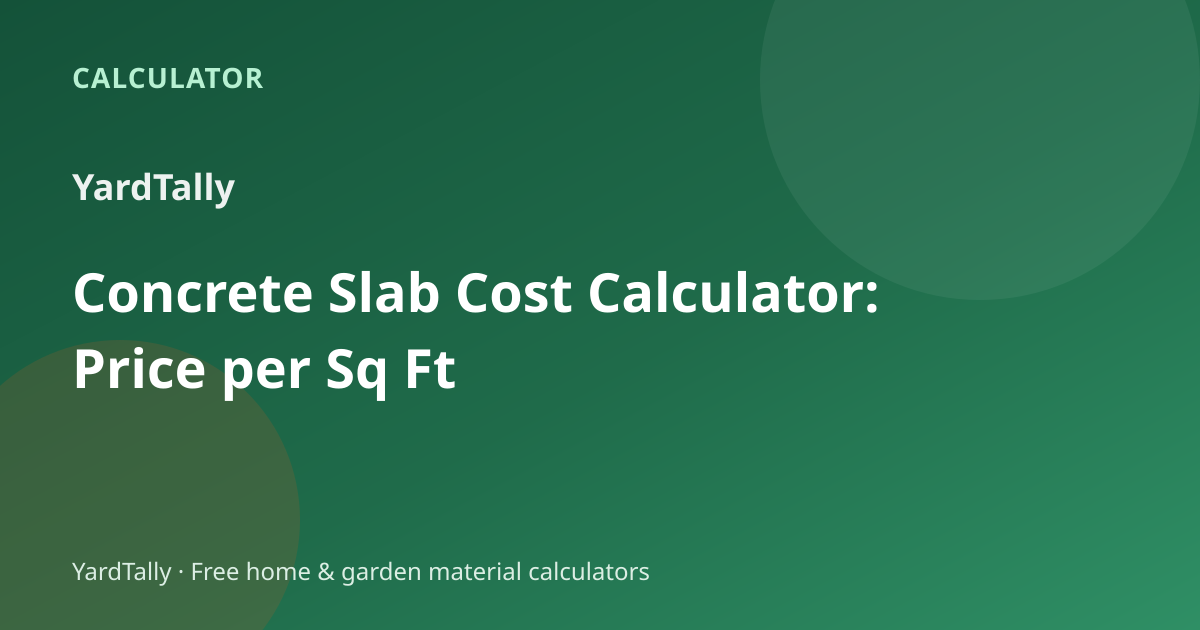
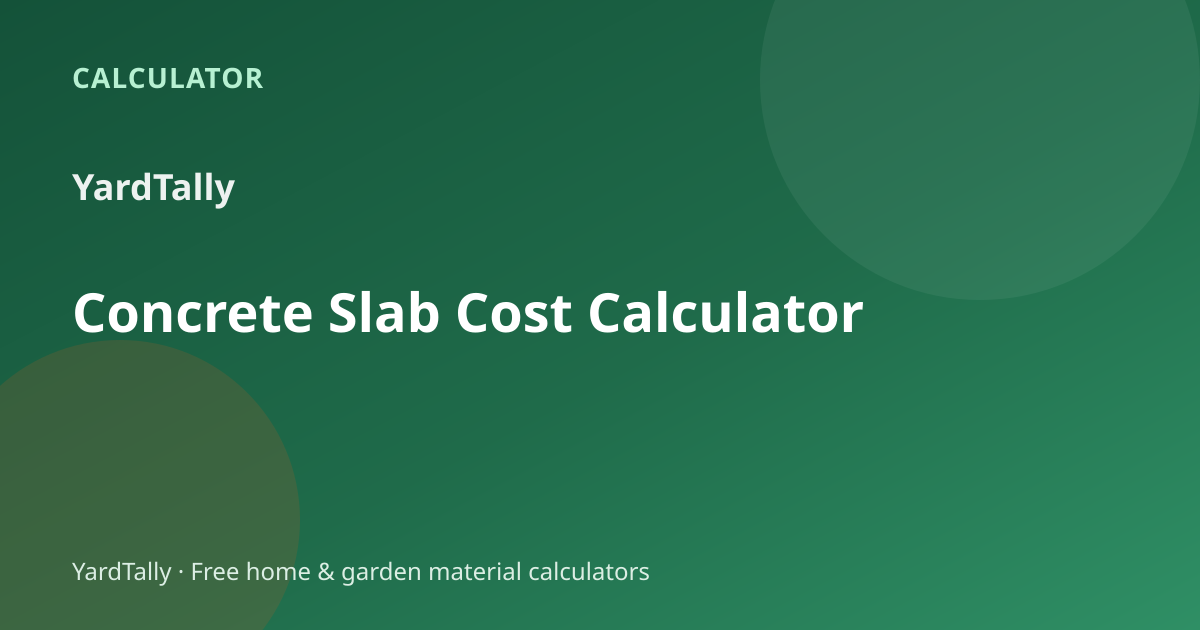
Harden sitemap coverage and tighten slab-cost SEO (#57)
Confirm every indexable route is in the sitemap with canonical
host/trailing slash/lastmod; fail CI via audit:indexing. Exact-match
title/H1/meta for concrete slab cost calculator plus reciprocal
concrete-steps links. GSC sitemap-index resubmitted separately.

Changed region(s): [[0.0617, 0.4222, 0.74, 0.6333]]

diff --git a/src/data/toolBodies.ts b/src/data/toolBodies.ts
@@ -1168,7 +1168,7 @@ bags = ceil(volume_total × (1 + waste) ÷ bag_yield)</code></pre>
       <div class="takeaway"><strong>Key takeaway:</strong> Volume is fixed by geometry; cost is only as good as the prices you paste in. Treat every dollar field as a quote placeholder, not a national average.</div>
       <h2>When ready-mix wins vs bags</h2>
       <p>Bags are fine for a small pad you can mix in batches. Past about one cubic yard—or any pour that must stay continuous across a patio—most people price a short-load truck even when the yardage looks “small.” Short-load fees often hurt more than the extra concrete on the ticket; I round up to the next quarter yard when the plant bills that way. Run both modes here with your real numbers before you decide.</p>
-      <p>Need a volume-only check without money fields? Stay on the <a href="/calculators/concrete-calculator/">yards &amp; bags calculator</a>. Coverage planning is in <a href="/guides/how-much-concrete-do-i-need/">how much concrete do I need</a>; thickness norms in <a href="/guides/concrete-slab-thickness/">concrete slab thickness</a>. Strip footings are a different shape—use the <a href="/calculators/concrete-footing-calculator/">concrete footing calculator</a>. Bag charts without pricing live in <a href="/guides/how-many-bags-of-concrete/">how many bags of concrete</a>.</p>
+      <p>Need a volume-only check without money fields? Stay on the <a href="/calculators/concrete-calculator/">yards &amp; bags calculator</a>. Solid poured stairs are a different shape—use the <a href="/calculators/concrete-steps-calculator/">concrete steps calculator</a>. Coverage planning is in <a href="/guides/how-much-concrete-do-i-need/">how much concrete do I need</a>; thickness norms in <a href="/guides/concrete-slab-thickness/">concrete slab thickness</a>. Strip footings are a different shape—use the <a href="/calculators/concrete-footing-calculator/">concrete footing calculator</a>. Bag charts without pricing live in <a href="/guides/how-many-bags-of-concrete/">how many bags of concrete</a>.</p>
       <h2>Pricing the add-ons without guessing</h2>
       <p>Gravel base is a separate order. Measure base depth, convert with the <a href="/calculators/gravel-calculator/">gravel calculator</a>, then paste the yard’s ton or yard quote into the gravel field. Steel can be rebar sticks (see the <a href="/calculators/rebar-calculator/">rebar calculator</a>) or welded-wire mesh from a lumber yard—enter the cash total, not a made-up $/sq ft “industry rate.” Forms are usually 2× lumber you already price per board foot. Delivery and short-load fees come straight off the batch plant’s quote sheet. Labor per sq ft is optional; use it only if you are comparing DIY vs hired finishing, and use <em>your</em> rate.</p>
       <h2>Common mistakes</h2>

diff --git a/tests/sitemap-coverage.test.ts b/tests/sitemap-coverage.test.ts
@@ -1,0 +1,48 @@
+import { describe, expect, it } from 'vitest';
+import { tools, categories } from '../src/data/tools';
+import { guides } from '../src/data/guides';
+import { STATIC_INDEXABLE_PATHS } from '../scripts/audit/expected-sitemap-paths.mjs';
+
+/** Pathnames that must appear in the production sitemap after build. */
+function expectedIndexablePathnames(): string[] {
+  const fromTools = tools.map((t) => `/calculators/${t.slug}/`);
+  const fromGuides = guides.map((g) => `/guides/${g.slug}/`);
+  const fromHubs = Object.values(categories).map((c) => `/hubs/${c.slug}/`);
+  return [...new Set([...STATIC_INDEXABLE_PATHS, ...fromHubs, ...fromTools, ...fromGuides])].sort();
+}
+
+describe('sitemap coverage contract', () => {
+  it('lists unique trailing-slash pathnames for every indexable route', () => {
+    const paths = expectedIndexablePathnames();
+    expect(paths.length).toBeGreaterThan(40);
+    expect(new Set(paths).size).toBe(paths.length);
+    for (const p of paths) {
+      expect(p.startsWith('/')).toBe(true);
+      expect(p.endsWith('/')).toBe(true);
+    }
+  });
+
+  it('includes both concrete calculator and slab-cost calculator paths', () => {
+    const paths = new Set(expectedIndexablePathnames());
+    expect(paths.has('/calculators/concrete-calculator/')).toBe(true);
+    expect(paths.has('/calculators/concrete-slab-cost-calculator/')).toBe(true);
+  });
+
+  it('keeps static shells in the shared STATIC_INDEXABLE_PATHS list', () => {
+    for (const p of ['/', '/about/', '/contact/', '/methodology/', '/calculators/', '/guides/']) {
+      expect(STATIC_INDEXABLE_PATHS).toContain(p);
+    }
+  });
+
+  it('registers every tool and guide slug used by Astro routes', () => {
+    expect(tools.length).toBeGreaterThan(20);
+    expect(guides.length).toBeGreaterThan(10);
+    expect(Object.keys(categories).length).toBeGreaterThanOrEqual(4);
+    for (const t of tools) {
+      expect(t.slug).toMatch(/^[a-z0-9-]+$/);
+    }
+    for (const g of guides) {
+      expect(g.slug).toMatch(/^[a-z0-9-]+$/);
+    }
+  });
+});

diff --git a/src/data/tools.ts b/src/data/tools.ts
@@ -2104,16 +2104,17 @@ export const tools: ToolDefinition[] = [
       'concrete patio cost calculator',
       'ready mix concrete cost calculator',
     ],
-    title: 'Concrete Slab Cost Calculator: Price per Sq Ft',
+    title: 'Concrete Slab Cost Calculator',
     description:
-      'Estimate concrete slab cost from your ready-mix or bag price. A 10×10×4″ pour is about 1.36 cu yd with 10% waste—enter your quotes for total and $/sq ft.',
-    h1: 'Concrete Slab Cost Calculator: Price per Sq Ft',
+      'Concrete slab cost calculator for ready-mix $/yd or bag prices. A 10×10×4″ pour is ~1.36 cu yd with 10% waste—enter your quotes for total cost and $/sq ft.',
+    h1: 'Concrete Slab Cost Calculator',
     answerFirst:
       'A 10×10 slab at 4 inches is about 1.23 cu yd before waste (~1.36 cu yd with 10% waste). This concrete slab cost calculator multiplies that volume (or bag count) by the ready-mix or bag price you enter, then adds optional gravel, rebar, forms, delivery, and labor you price yourself. Default dollar fields are labeled examples—not market stats.',
     summary: 'Slab volume priced with your ready-mix or bag quotes plus optional add-ons.',
     calculatorId: 'concrete-slab-cost',
     relatedSlugs: [
       'concrete-calculator',
+      'concrete-steps-calculator',
       'concrete-footing-calculator',
       'rebar-calculator',
       'gravel-calculator',
@@ -2201,6 +2202,7 @@ export const tools: ToolDefinition[] = [
     calculatorId: 'concrete-steps',
     relatedSlugs: [
       'concrete-calculator',
+      'concrete-slab-cost-calculator',
       'concrete-footing-calculator',
       'rebar-calculator',
       'concrete-calculator-post-holes',
@@ -2244,7 +2246,7 @@ export const tools: ToolDefinition[] = [
     ],
     sectionsHtml: toolBodies['concrete-steps-calculator'],
     datePublished: '2026-11-25',
-    dateModified: '2026-11-25',
+    dateModified: '2026-11-27',
     applicationCategory: 'UtilitiesApplication',
     embeddable: true,
   },

diff --git a/src/data/toolBodyVariants.ts b/src/data/toolBodyVariants.ts
@@ -26,7 +26,7 @@ export const toolBodyVariants: Record<string, string> = {
 
       <h2>How many bags of concrete for porch steps?</h2>
       <p>For the worked example, plan on <strong>18 × 80 lb</strong>, <strong>24 × 60 lb</strong>, or <strong>36 × 40 lb</strong> bags after waste. Bigger flights scale fast—compare ready-mix once you're past about a cubic yard.</p>
-      <p>More bag charts: <a href="/guides/how-many-bags-of-concrete/">how many bags of concrete</a>. Related tools live in the <a href="/hubs/concrete/">concrete hub</a>, including the <a href="/calculators/concrete-footing-calculator/">footing calculator</a> and <a href="/calculators/rebar-calculator/">rebar calculator</a>.</p>
+      <p>More bag charts: <a href="/guides/how-many-bags-of-concrete/">how many bags of concrete</a>. Related tools live in the <a href="/hubs/concrete/">concrete hub</a>, including the <a href="/calculators/concrete-footing-calculator/">footing calculator</a>, <a href="/calculators/rebar-calculator/">rebar calculator</a>, and <a href="/calculators/concrete-slab-cost-calculator/">concrete slab cost calculator</a> when you have plant or bag quotes.</p>
 
       <h2>Do steps need footings or rebar?</h2>
       <p>Often yes at the code level, but this tool only sizes concrete volume for the stair mass you enter. Frost depth and steel layout belong on the drawing.</p>

diff --git a/docs/GROWTH-STATUS.md b/docs/GROWTH-STATUS.md
@@ -1,6 +1,6 @@
 # Growth / SEO status (living)
 
-**Last updated:** 2026-11-27
+**Last updated:** 2026-11-27 (sitemap coverage + slab-cost SEO)
 
 Read this before planning growth, SEO, or content work. Update it in the **same PR** when you complete, start, or add an item. Do **not** invent metrics, directory confirmations, or off-repo actions — only record owner-confirmed facts.
 
@@ -28,7 +28,8 @@ As of **2026-11-25** (GSC `sc-domain:getyardtally.com`, last **3 months** unless
 
 ## Done
 
-- **2026-11-27 — this PR (SEO page fixes):** Concrete slab cost title/H1/meta + numeric answerFirst; concrete calculator title “Slab Yards & Bags”; lumber meta + KEYWORD-MAP settle weight-per-foot on chart guide; brick mortar bags (QUIKRETE 1102: 37 bricks / 13 blocks per 80 lb) + retitle; mulch-depth duplicate takeaway removed; how-many-bags → slab-cost link. **No IndexNow.**
+- **2026-11-27 — this PR (sitemap + slab-cost SEO):** Verified live `/sitemap-index.xml` → `sitemap-0.xml` already lists every calculator (incl. `/calculators/concrete-calculator/` and `/calculators/concrete-slab-cost-calculator/`) with apex HTTPS + trailing slash matching page canonicals; `robots.txt` already points at the index. Hardened `audit:indexing` to fail on any missing calculator/guide/hub/static indexable route, missing `lastmod`, or wrong robots Sitemap line; added `tests/sitemap-coverage.test.ts`; wired `npm run audit:indexing` into PR CI after build. Tightened slab-cost title/H1/meta to exact primary query; reciprocal internal links with concrete steps. GSC URL Inspection (2026-11-27): both concrete pages **Submitted and indexed**; resubmitted sitemap-index so Google re-fetches. **No IndexNow from this agent (pre-deploy).**
+- **2026-11-27 — SEO page fixes (#56):** Concrete slab cost title/H1/meta + numeric answerFirst; concrete calculator title “Slab Yards & Bags”; lumber meta + KEYWORD-MAP settle weight-per-foot on chart guide; brick mortar bags (QUIKRETE 1102: 37 bricks / 13 blocks per 80 lb) + retitle; mulch-depth duplicate takeaway removed; how-many-bags → slab-cost link. **No IndexNow.**
 - **2026-11-27 — Worker `/404/` body (#55):** Live `/404/` returned empty body + `Location: /404/` because the Worker fetched `/404.html` and Assets `force-trailing-slash` 307’d it. Now fetches ASSETS `/404/`, strips Location, forces status 404 (also covers `/404.html`).
 - **2026-11-27 — embed framing (#54):** `/embed/*` can be iframed cross-origin (`! X-Frame-Options` + CSP `frame-ancestors *`); site-wide `X-Frame-Options: SAMEORIGIN` unchanged.
 - **2026-11-27 — analytics reliability (#53):** GA no longer deferred via `requestIdleCallback` (loads immediately); Accept path sends at most one `page_view` (explicit only if `config` already ran); CSP `script-src` includes `https://*.adtrafficquality.google`.
@@ -76,7 +77,7 @@ As of **2026-11-25** (GSC `sc-domain:getyardtally.com`, last **3 months** unless
 
 ## Remaining / risks
 
-1. **After deploy (this PR — do not run IndexNow pre-deploy):** `npm run indexnow` (all `dist/` sitemap URLs including new variant tools + redirect targets; **do not change the IndexNow key**) **and** GSC URL Inspection → Request indexing for new/changed pages + validate discovered-not-indexed / redirect / noindex buckets.
+1. **After deploy (this PR — do not run IndexNow pre-deploy):** `npm run indexnow` (all `dist/` sitemap URLs including new variant tools + redirect targets; **do not change the IndexNow key**) **and** GSC URL Inspection → Request indexing for slab-cost (title/meta change) + validate sitemap “indexed” count catching up from the 2026-11-27 resubmit / discovered-not-indexed / redirect / noindex buckets.
 2. **After deploy (Agathox):** confirm Agathox can read the meta tag and/or `/.well-known/agathox-verification.txt` (200, no slash redirect); record listing URL here only when owner-confirmed.
 3. **Optional `sameAs` enrichment:** LinkedIn / X / Product Hunt URLs only when real — set via `PUBLIC_AUTHOR_SAME_AS` / `PUBLIC_ORG_SAME_AS` (GitHub default already ships). Do not invent profiles.
 4. **`PUBLIC_BING_SITE_VERIFICATION` unset** in Workers Builds — Bing HTML meta tag not emitted until set (Bing Webmaster itself was previously verified; confirm if meta tag is still desired).
@@ -93,7 +94,7 @@ As of **2026-11-25** (GSC `sc-domain:getyardtally.com`, last **3 months** unless
 
 ## In progress
 
-- None for the 2026-11-27 fix-PR batch (#52–#56); off-repo directory/embed/Product Hunt work remains below.
+- None for the 2026-11-27 sitemap/slab-cost PR; off-repo directory/embed/Product Hunt work remains below.
 
 ## Off-repo work
 

diff --git a/README.md b/README.md
@@ -14,8 +14,8 @@ Refresh this section whenever you ship a PR. Full detail + metrics: [`docs/GROWT
 
 ### Done (as of 2026-11-27)
 
-- **SEO page fixes (this PR):** Slab cost title/H1/meta/answerFirst (opens with 1.23/1.36 yd; prices labeled examples); concrete calculator title drops Rebar; lumber meta + KEYWORD-MAP (weight-per-foot owned by chart guide); brick mortar bags from QUIKRETE 1102 + retitle; mulch-depth duplicate quick-answer removed; inbound from how-many-bags → slab cost.
-- Prior: Worker `/404/` (#55); embed framing (#54); analytics reliability (#53); geo analytics consent (#52); SEO authority + GSC variants; durable SEO agent rules; title/H1 rewrite; mulch quantity merge; lumber weight + chart; Agathox; slab/footing upgrades; homepage grid; PAA guides; human-writing rewrite; TinyLaunch (2026-12-07).
+- **Sitemap coverage + slab-cost SEO (this PR):** Confirmed production sitemap lists all indexable calculators/guides/hubs with canonical apex + trailing-slash URLs; hardened `audit:indexing` + Vitest contract + CI gate so missing routes fail the build; slab-cost title/H1/meta tightened to “concrete slab cost calculator”; reciprocal links with concrete steps; GSC sitemap resubmitted.
+- Prior (#56): Slab cost answerFirst; concrete “Slab Yards & Bags”; lumber/brick/mulch SEO; Worker `/404/` (#55); embed framing (#54); analytics (#53); geo consent (#52); SEO authority; durable SEO rules; title rewrite; mulch merge; lumber weight; Agathox; TinyLaunch (2026-12-07).
 
 ## Embed this calculator
 
@@ -32,7 +32,7 @@ Replace `concrete-calculator` with any embeddable slug (see the tool list below)
 
 ### Remaining
 
-- **After deploy (do not run from agents pre-deploy):** `npm run indexnow` (all sitemap URLs including new variants) **and** GSC URL Inspection → Request indexing / validate discovered-not-indexed + redirect/noindex buckets. IndexNow key unchanged.
+- **After deploy (do not run from agents pre-deploy):** `npm run indexnow` (all sitemap URLs including new variants) **and** GSC URL Inspection → Request indexing for changed slab-cost page / validate sitemap indexed count + discovered-not-indexed + redirect/noindex buckets. IndexNow key unchanged.
 - After deploy: confirm Agathox ownership; record listing URL in `docs/GROWTH-STATUS.md` when confirmed.
 - Optional real LinkedIn/X/Product Hunt `sameAs` via env only; `PUBLIC_BING_SITE_VERIFICATION` still unset; editorial backlinks still essentially none.
 - **Reddit promotion paused** (2026-11-19): build karma with link-free helpful comments before posting again.
